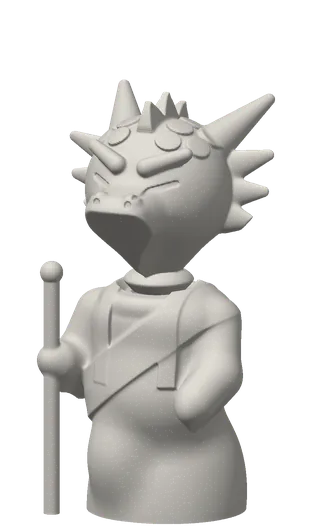
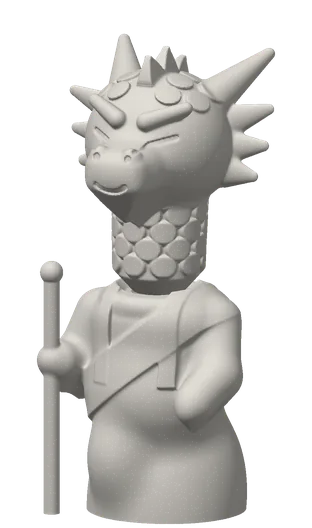
feat: The Quiff added; dragon on a scaled neck; big-eyed cyclops; Zeus parked (D-037)
Still 42 heads: characters 10, people 7, animals 16, creatures 9.
45 parts pass the print checks.

Changed region(s): [[0.2019, 0.0606, 0.8942, 0.5455]]

diff --git a/assets/buddies.js b/assets/buddies.js
@@ -97,20 +97,20 @@
                  practice: "Tell one person what the face means." },
     troll:     { name: "The Troll",     f: "creatures", t: [-1, -1, 1, 1], tag: "For the one who is happy under the bridge, thanks.",
                  practice: "Let one person cross today without the riddle." },
-    zeus:      { name: "Zeus",          f: "characters", t: [1, 1, -1, 0],    tag: "For the one whose mood sets the weather in the room.",
-                 practice: "Before you thunder, count to five. Most storms pass on their own." },
-    beard:     { name: "The Beard",     f: "people", t: [-1, 1, -1, 0],  tag: "For the one who says 'let me think about that' and then does.",
+    beard:     { name: "The Beard",     f: "people", t: [0, 1, -2, 1], tag: "For the one who says 'let me think about that' and then does.",
                  practice: "Give the next question a full breath before you answer it." },
-    longhair:  { name: "The Long Hair", f: "people", t: [-2, -2, 1, 2], tag: "For the one who lets things take as long as they take.",
+    longhair:  { name: "The Long Hair", f: "people", t: [-2, -2, 0, 2], tag: "For the one who lets things take as long as they take.",
                  practice: "Do one thing today at the speed it wants to go." },
-    bun:       { name: "The Bun",       f: "people", t: [0, 0, 0, -1],   tag: "For the one with everything tied up and out of the way.",
+    bun:       { name: "The Bun",       f: "people", t: [-1, 1, 0, 0], tag: "For the one with everything tied up and out of the way.",
                  practice: "Let one thing down today. It can go back up tomorrow." },
-    ponytail:  { name: "The Ponytail",  f: "people", t: [2, 1, 0, 0],    tag: "For the one already halfway out the door.",
+    ponytail:  { name: "The Ponytail",  f: "people", t: [1, 0, 0, 0], tag: "For the one already halfway out the door.",
                  practice: "Stop in the doorway. One breath. Then go." },
     curls:     { name: "The Curls",     f: "people", t: [0, 2, 1, 1],    tag: "For the one who will not be brushed into line.",
                  practice: "Leave one thing today exactly as untidy as it wants to be." },
     glasses:   { name: "The Glasses",   f: "people", t: [-2, -2, -2, -1], tag: "For the one who read the terms and conditions.",
-                 practice: "Take them off. Let the room go soft for one minute." }
+                 practice: "Take them off. Let the room go soft for one minute." },
+    quiff:     { name: "The Quiff",     f: "people", t: [2, 1, -1, 1],   tag: "For the one who makes it look easy and would like you to think it is.",
+                 practice: "Tell one person what it actually took." }
   };
 
   // Each answer nudges the traits: [energy, company, heart, wildness].

diff --git a/assets/site.js b/assets/site.js
@@ -5,8 +5,8 @@
   "use strict";
   var S = window.QUIET_COMPANY;
   // Seated height in mm for the heads that stand well above the rest; standing and walking add 25.
-  var TALL_MM = { glasses: 118, cyclops: 122, longhair: 122, beard: 123, ponytail: 124, curls: 130, bun: 134, troll: 122, husky: 123, lion: 123, robot: 123, dragon: 125, ghost: 125, minotaur: 126, zeus: 127,
-                  alien: 128, jester: 131, unicorn: 137, bunny: 140, elf: 140, wizard: 140, giraffe: 148 };
+  var TALL_MM = { glasses: 118, cyclops: 123, longhair: 122, beard: 123, ponytail: 124, curls: 130, bun: 134, troll: 122, husky: 123, lion: 123, robot: 123, quiff: 125, ghost: 125, minotaur: 126, 
+                  alien: 128, jester: 131, dragon: 132, unicorn: 137, bunny: 140, elf: 140, wizard: 140, giraffe: 148 };
   var HEAD_IDS = Object.keys(S.HEADS), BODY_IDS = Object.keys(S.BODIES);
 
   function el(tag, cls, text) {
